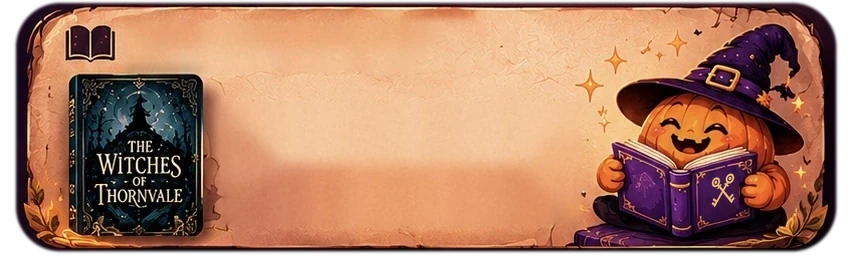
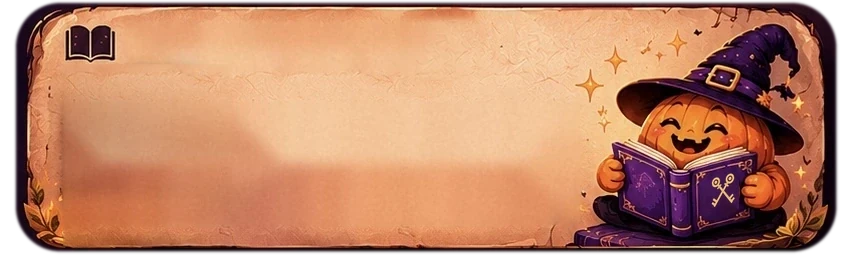
Latest Addition: remove old painted book from card background so only the standard book frame shows
Claude-Session: https://claude.ai/code/session_01DZ2Pcyb6RrTVnSxq7irSMG

Changed region(s): [[0.061, 0.2471, 0.2746, 0.9575]]

diff --git a/index.html b/index.html
@@ -4,7 +4,7 @@
 <meta charset="utf-8">
 <style>html{background:#0e0416}</style>
 <meta http-equiv="Cache-Control" content="no-cache">
-<meta name="app-version" content="home-74">
+<meta name="app-version" content="home-75">
 <script>try{document.documentElement.classList.add(sessionStorage.getItem('intro.shown')==='1'?'back':'intro-on')}catch(e){}</script>
 <meta name="viewport" content="width=device-width, initial-scale=1, viewport-fit=cover, user-scalable=no">
 <link rel="preload" as="image" href="img/frame.webp" fetchpriority="high">

diff --git a/home.js b/home.js
@@ -96,7 +96,7 @@ if(document.fonts)document.fonts.ready.then(()=>{const q=document.getElementById
 document.addEventListener('visibilitychange',()=>{if(!document.hidden)showQuote()});
 
 /* ---------- offline + auto-update ---------- */
-const APP_VERSION='home-74';
+const APP_VERSION='home-75';
 // a new version arrived: drop the saved pictures once so new art shows straight away
 try{const v=localStorage.getItem('home.ver');
   if(v!==APP_VERSION){localStorage.setItem('home.ver',APP_VERSION);
